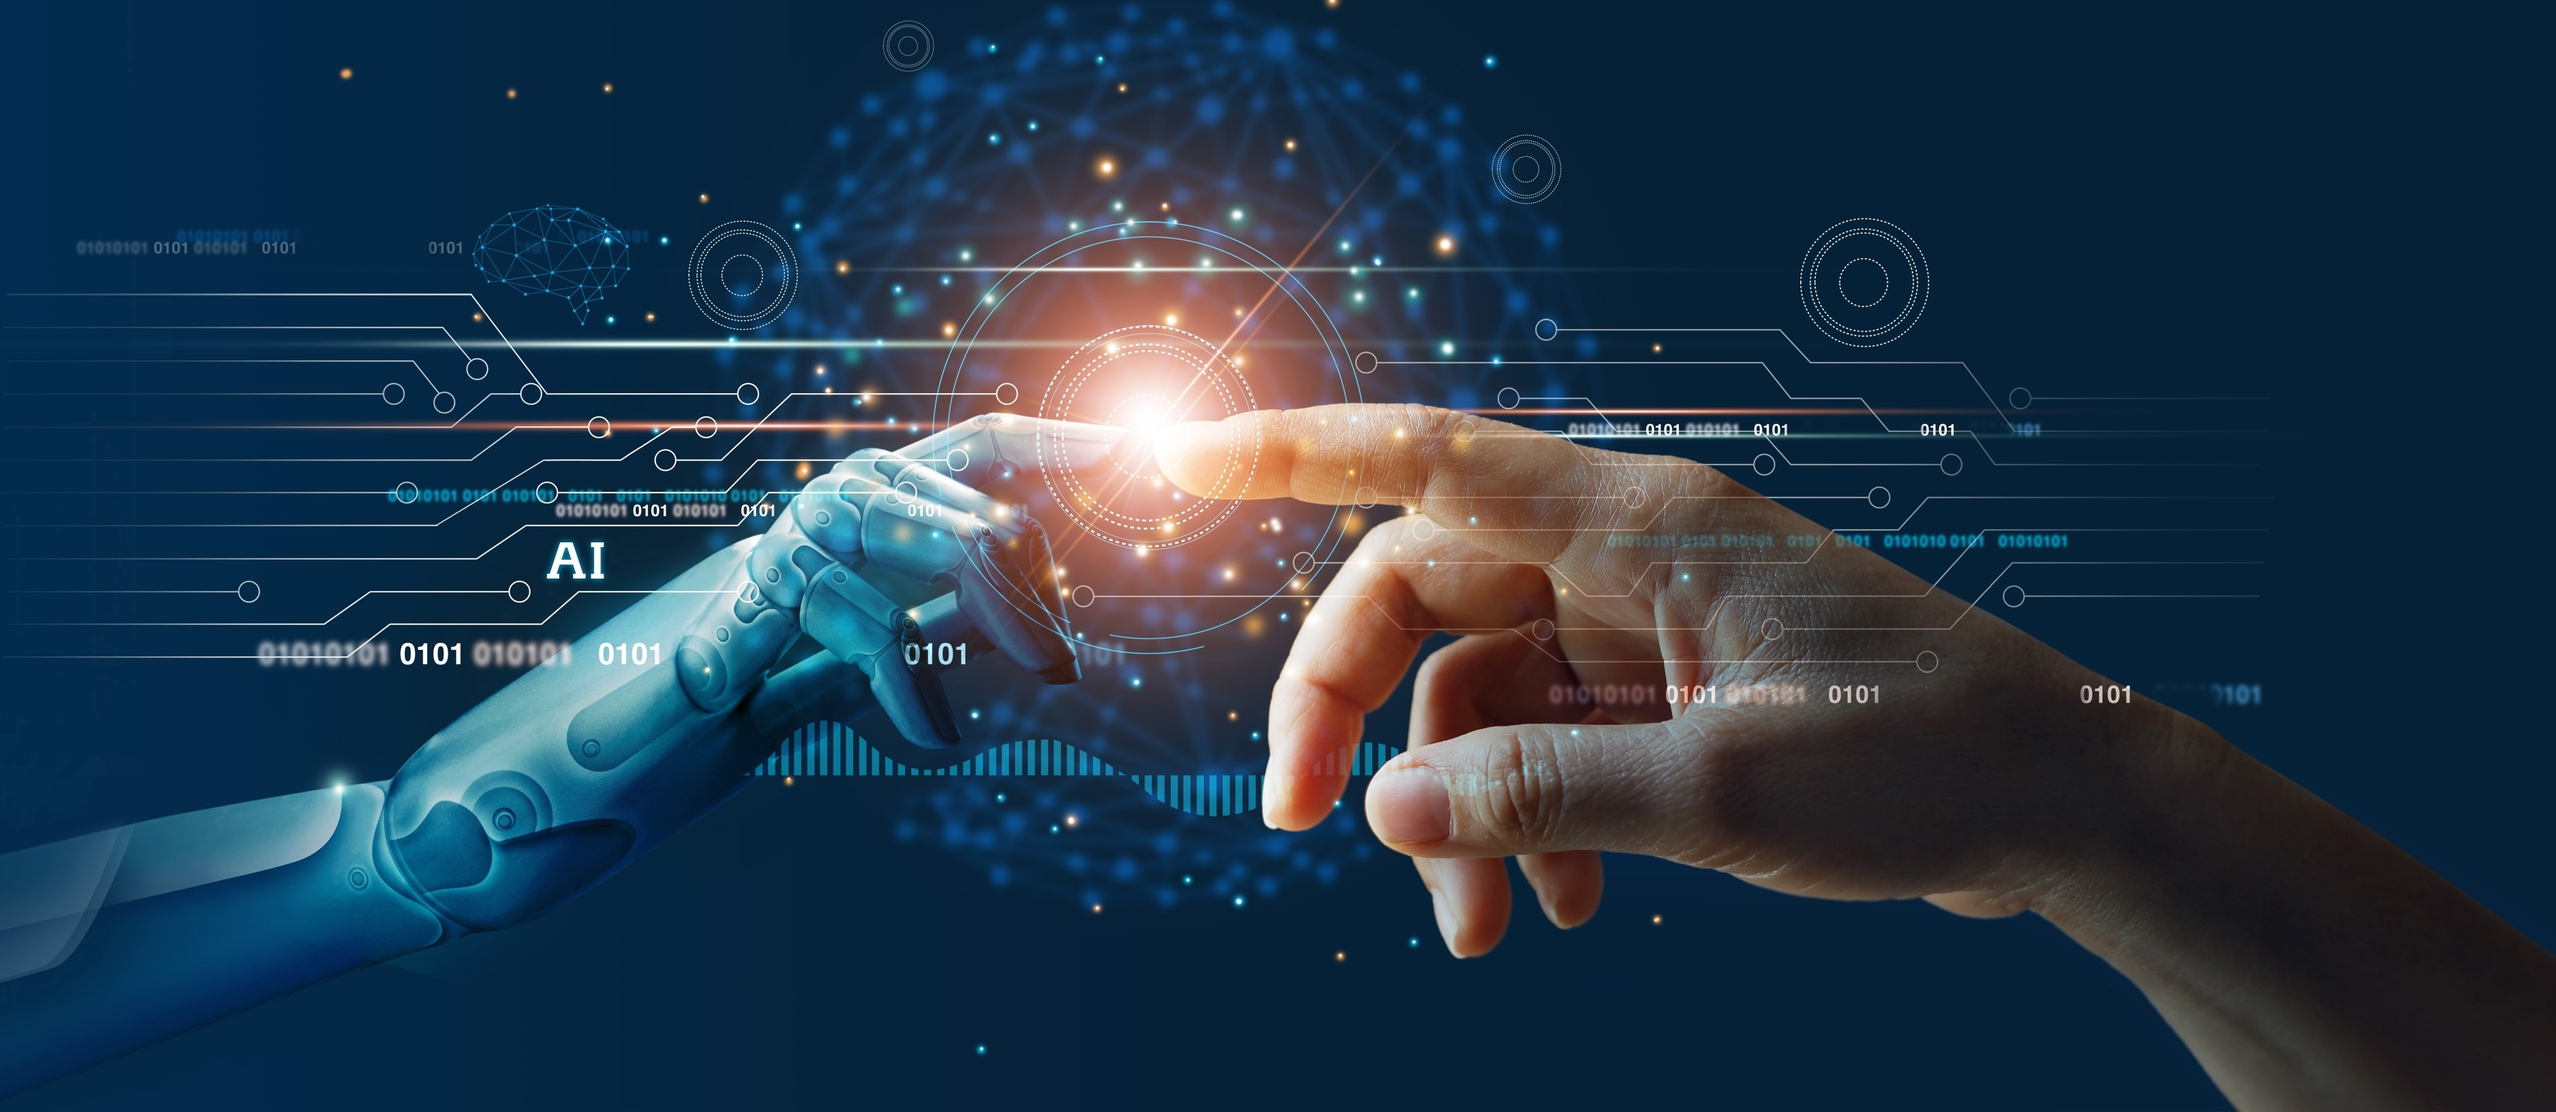
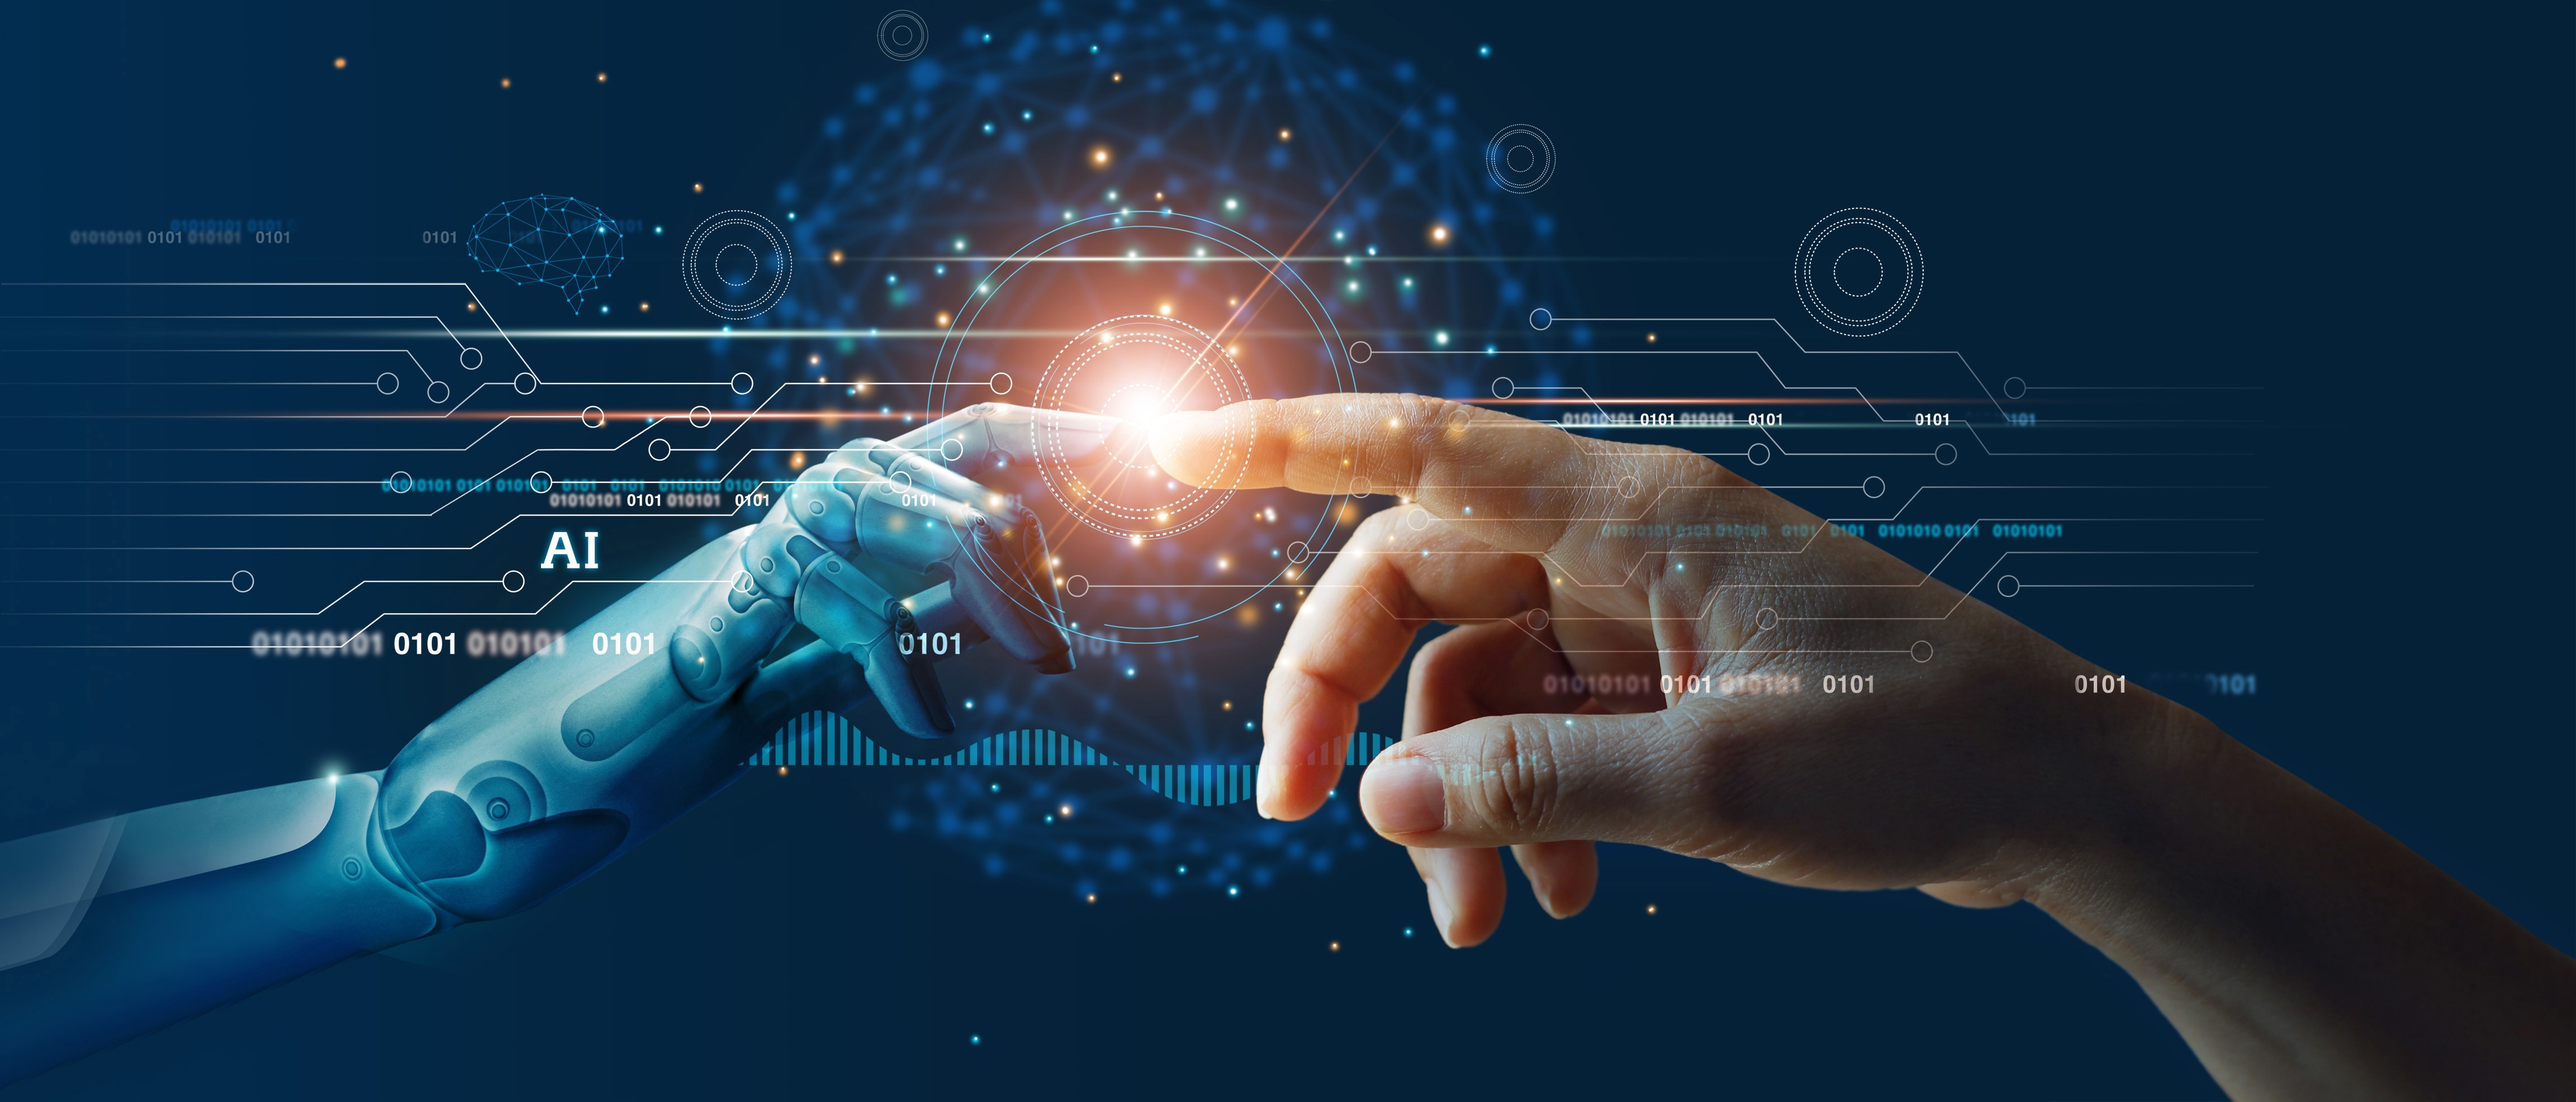
Built site for gh-pages

diff --git a/index.html b/index.html
@@ -291,7 +291,6 @@ ul.task-list li input[type="checkbox"] {
 <p><i class="bi bi-github" style="color: var(--link-color);"></i> &nbsp; Links to code repositories containing supplementary educational materials.</p>
 <p><i class="bi bi-journal-text" style="color: var(--link-color);"></i> &nbsp;Links to publications inspired by or resulting from the educational resource.</p>
 
-
 </section>
 
 <a onclick="window.scrollTo(0, 0); return false;" role="button" id="quarto-back-to-top"><i class="bi bi-arrow-up"></i> Back to top</a></main> <!-- /main -->
@@ -368,7 +367,7 @@ ul.task-list li input[type="checkbox"] {
     }
       var localhostRegex = new RegExp(/^(?:http|https):\/\/localhost\:?[0-9]*\//);
       var mailtoRegex = new RegExp(/^mailto:/);
-        var filterRegex = new RegExp("https:\/\/ysph-dsde\.github\.io\/ai-resources-page\/");
+        var filterRegex = new RegExp('/' + window.location.host + '/');
       var isInternal = (href) => {
           return filterRegex.test(href) || localhostRegex.test(href) || mailtoRegex.test(href);
       }
@@ -759,6 +758,9 @@ ul.task-list li input[type="checkbox"] {
     <li class="nav-item">
  (203) 737-8644
   </li>  
+    <li class="nav-item">
+ </li></ul><div style="margin-top: 0px;"><a href="https://forms.office.com/Pages/ResponsePage.aspx?id=u76M3Tkh-E20EU4-h6vrXH-TvKDg8gZHqoE3FAMavy5UQTNGVDlWSFZOVUVNMUsxWktNTUdMS1lVRS4u">Share Feedback</a><br><a href="https://yalesurvey.ca1.qualtrics.com/jfe/form/SV_82fW025R84g82MK">Propose an Enhancement</a></div><ul class="footer-items list-unstyled" style="display:none;">
+    
 </ul>
     </div>
   </div>

diff --git a/Pages/about-us.html b/Pages/about-us.html
@@ -545,8 +545,6 @@ Each resource is designed to empower YSPH students, staff, and faculty to excel 
 </div>
 
 
-
-
 <a onclick="window.scrollTo(0, 0); return false;" role="button" id="quarto-back-to-top"><i class="bi bi-arrow-up"></i> Back to top</a></main> <!-- /main -->
 <script id="quarto-html-after-body" type="application/javascript">
   window.document.addEventListener("DOMContentLoaded", function (event) {
@@ -621,7 +619,7 @@ Each resource is designed to empower YSPH students, staff, and faculty to excel 
     }
       var localhostRegex = new RegExp(/^(?:http|https):\/\/localhost\:?[0-9]*\//);
       var mailtoRegex = new RegExp(/^mailto:/);
-        var filterRegex = new RegExp("https:\/\/ysph-dsde\.github\.io\/ai-resources-page\/");
+        var filterRegex = new RegExp('/' + window.location.host + '/');
       var isInternal = (href) => {
           return filterRegex.test(href) || localhostRegex.test(href) || mailtoRegex.test(href);
       }
@@ -1012,6 +1010,9 @@ Each resource is designed to empower YSPH students, staff, and faculty to excel 
     <li class="nav-item">
  (203) 737-8644
   </li>  
+    <li class="nav-item">
+ </li></ul><div style="margin-top: 0px;"><a href="https://forms.office.com/Pages/ResponsePage.aspx?id=u76M3Tkh-E20EU4-h6vrXH-TvKDg8gZHqoE3FAMavy5UQTNGVDlWSFZOVUVNMUsxWktNTUdMS1lVRS4u">Share Feedback</a><br><a href="https://yalesurvey.ca1.qualtrics.com/jfe/form/SV_82fW025R84g82MK">Propose an Enhancement</a></div><ul class="footer-items list-unstyled" style="display:none;">
+    
 </ul>
     </div>
   </div>

diff --git a/Pages/policies.html b/Pages/policies.html
@@ -326,7 +326,6 @@ ul.task-list li input[type="checkbox"] {
 </div>
 
 
-
 <a onclick="window.scrollTo(0, 0); return false;" role="button" id="quarto-back-to-top"><i class="bi bi-arrow-up"></i> Back to top</a></main> <!-- /main -->
 <script id="quarto-html-after-body" type="application/javascript">
   window.document.addEventListener("DOMContentLoaded", function (event) {
@@ -401,7 +400,7 @@ ul.task-list li input[type="checkbox"] {
     }
       var localhostRegex = new RegExp(/^(?:http|https):\/\/localhost\:?[0-9]*\//);
       var mailtoRegex = new RegExp(/^mailto:/);
-        var filterRegex = new RegExp("https:\/\/ysph-dsde\.github\.io\/ai-resources-page\/");
+        var filterRegex = new RegExp('/' + window.location.host + '/');
       var isInternal = (href) => {
           return filterRegex.test(href) || localhostRegex.test(href) || mailtoRegex.test(href);
       }
@@ -792,6 +791,9 @@ ul.task-list li input[type="checkbox"] {
     <li class="nav-item">
  (203) 737-8644
   </li>  
+    <li class="nav-item">
+ </li></ul><div style="margin-top: 0px;"><a href="https://forms.office.com/Pages/ResponsePage.aspx?id=u76M3Tkh-E20EU4-h6vrXH-TvKDg8gZHqoE3FAMavy5UQTNGVDlWSFZOVUVNMUsxWktNTUdMS1lVRS4u">Share Feedback</a><br><a href="https://yalesurvey.ca1.qualtrics.com/jfe/form/SV_82fW025R84g82MK">Propose an Enhancement</a></div><ul class="footer-items list-unstyled" style="display:none;">
+    
 </ul>
     </div>
   </div>

diff --git a/Pages/tools.html b/Pages/tools.html
@@ -641,7 +641,6 @@ No
 </tbody></table>
 
 
-
 <a onclick="window.scrollTo(0, 0); return false;" role="button" id="quarto-back-to-top"><i class="bi bi-arrow-up"></i> Back to top</a></main> <!-- /main -->
 <script id="quarto-html-after-body" type="application/javascript">
   window.document.addEventListener("DOMContentLoaded", function (event) {
@@ -716,7 +715,7 @@ No
     }
       var localhostRegex = new RegExp(/^(?:http|https):\/\/localhost\:?[0-9]*\//);
       var mailtoRegex = new RegExp(/^mailto:/);
-        var filterRegex = new RegExp("https:\/\/ysph-dsde\.github\.io\/ai-resources-page\/");
+        var filterRegex = new RegExp('/' + window.location.host + '/');
       var isInternal = (href) => {
           return filterRegex.test(href) || localhostRegex.test(href) || mailtoRegex.test(href);
       }
@@ -1107,6 +1106,9 @@ No
     <li class="nav-item">
  (203) 737-8644
   </li>  
+    <li class="nav-item">
+ </li></ul><div style="margin-top: 0px;"><a href="https://forms.office.com/Pages/ResponsePage.aspx?id=u76M3Tkh-E20EU4-h6vrXH-TvKDg8gZHqoE3FAMavy5UQTNGVDlWSFZOVUVNMUsxWktNTUdMS1lVRS4u">Share Feedback</a><br><a href="https://yalesurvey.ca1.qualtrics.com/jfe/form/SV_82fW025R84g82MK">Propose an Enhancement</a></div><ul class="footer-items list-unstyled" style="display:none;">
+    
 </ul>
     </div>
   </div>

diff --git a/Pages/resources.html b/Pages/resources.html
@@ -267,8 +267,6 @@ window.Quarto = {
 
 
 
-
-
 <script id="quarto-html-after-body" type="application/javascript">
   window.document.addEventListener("DOMContentLoaded", function (event) {
     const icon = "";
@@ -342,7 +340,7 @@ window.Quarto = {
     }
       var localhostRegex = new RegExp(/^(?:http|https):\/\/localhost\:?[0-9]*\//);
       var mailtoRegex = new RegExp(/^mailto:/);
-        var filterRegex = new RegExp("https:\/\/ysph-dsde\.github\.io\/ai-resources-page\/");
+        var filterRegex = new RegExp('/' + window.location.host + '/');
       var isInternal = (href) => {
           return filterRegex.test(href) || localhostRegex.test(href) || mailtoRegex.test(href);
       }
@@ -3807,6 +3805,9 @@ Organized by the Office of the Provost, this event invites faculty, students, an
     <li class="nav-item">
  (203) 737-8644
   </li>  
+    <li class="nav-item">
+ </li></ul><div style="margin-top: 0px;"><a href="https://forms.office.com/Pages/ResponsePage.aspx?id=u76M3Tkh-E20EU4-h6vrXH-TvKDg8gZHqoE3FAMavy5UQTNGVDlWSFZOVUVNMUsxWktNTUdMS1lVRS4u">Share Feedback</a><br><a href="https://yalesurvey.ca1.qualtrics.com/jfe/form/SV_82fW025R84g82MK">Propose an Enhancement</a></div><ul class="footer-items list-unstyled" style="display:none;">
+    
 </ul>
     </div>
   </div>
